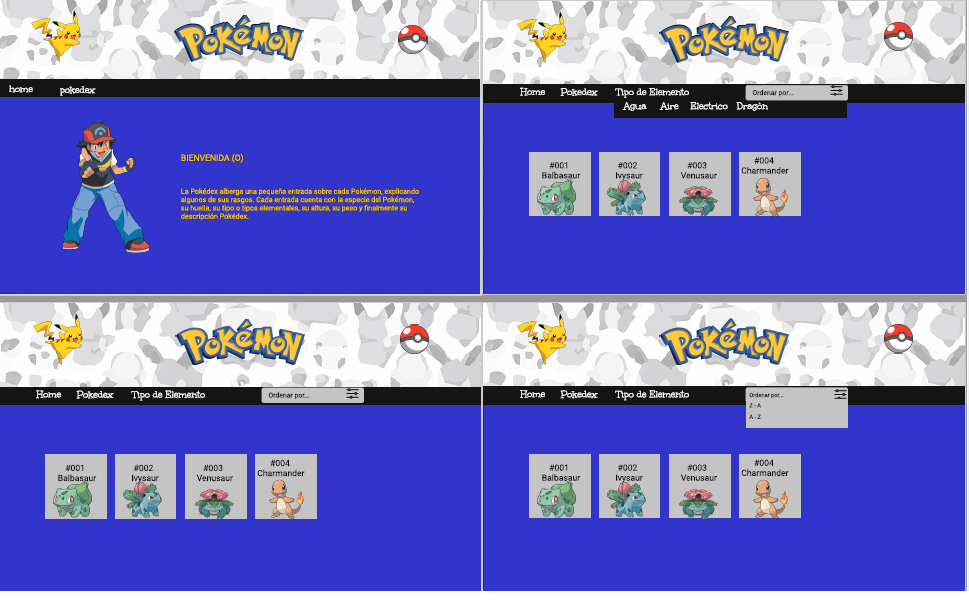
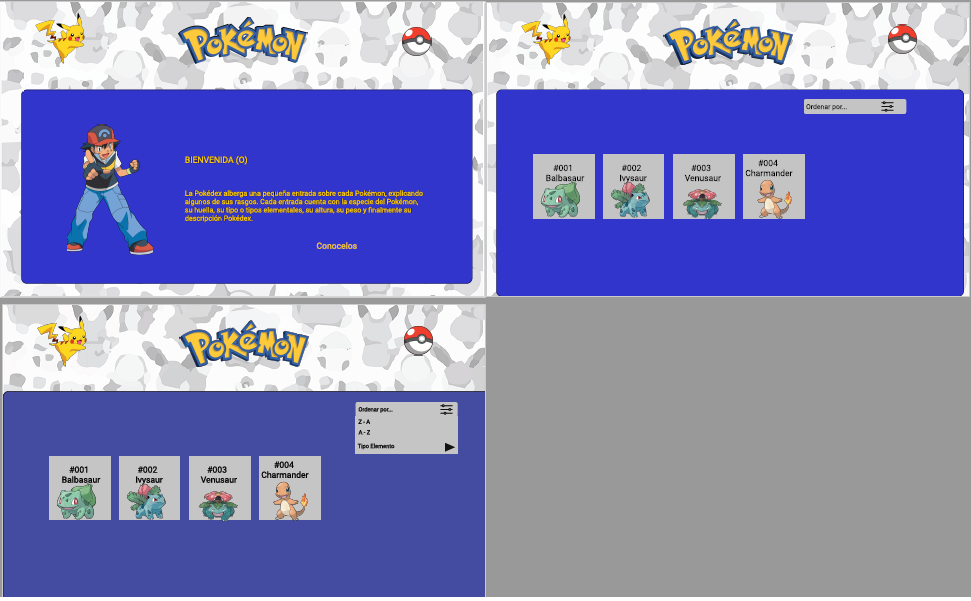
read

diff --git a/src/README.md b/src/README.md
@@ -66,22 +66,31 @@ Es una página contenedora de todos los datos necesarios para ser un maestro pok
 - El usuario podrá filtrar por Tipo de elemento ; Si desea ver tipo Agua desplegara un lista con los que pertenecen a ese elemento.
 
 #### Prototipo de baja fidelidad
+
 - Prototipo Principal
+
 ![Prototipo_bajaFidelidad](bajaFidelidad.png)
+
 - Prototipo despues de _feedback_
+
 ![Prototipo_bajaFidelidad](bajaFidelidad1.png)
 
 #### Prototipo de alta fidelidad
 
+- Prototipo Principal
+
 ![Prototipo_altaFidelidad](altaFidelidad.png)
+
+- Prototipo despues de _feedback_
+
+![Prototipo_altaFidelidad](altaFidelidad1.png)
 
 #### Testeos de usabilidad
 
-Durante el reto deberás hacer _tests_ de usabilidad con distintos usuarios, y
-en base a los resultados, deberás iterar tus diseños. Cuéntanos
-qué problemas de usabilidad detectaste a través de los _tests_ y cómo los
-mejoraste en tu propuesta final.
+Objetivos de testeo
 
+Probar la usabilidad de los filtros de la aplicación.
+Probar si las categorías son las adecuadas.
 ### Implementación de la Interfaz de Usuario (HTML/CSS/JS)
 
 Luego de diseñar tu interfaz de usuario deberás trabajar en su implementación.
